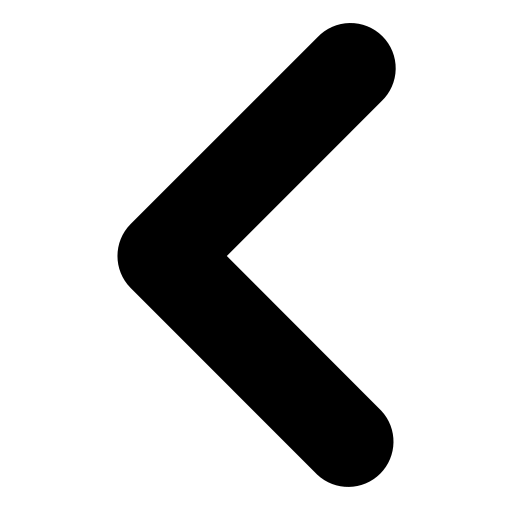
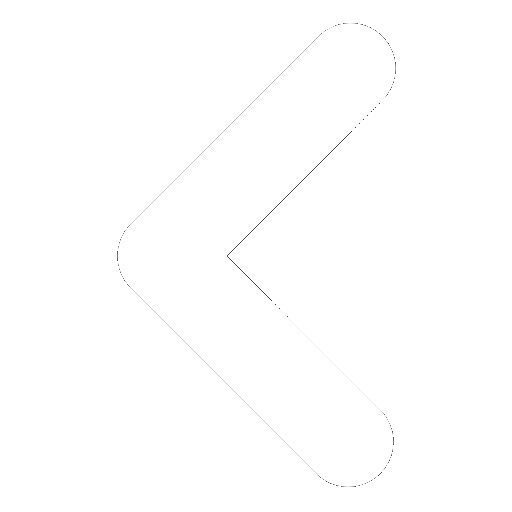
Added a back arrow to the project details page

Changed region(s): [[0.2188, 0.0312, 0.7812, 0.9688]]

diff --git a/src/app/project-details/project-details.component.css b/src/app/project-details/project-details.component.css
@@ -7,7 +7,7 @@ img {
     position: absolute;
     display: flex;
     float: left;
-    top: 10%;
+    top: 20%;
     left: 5%;
     width: 30%;
 }
@@ -28,4 +28,13 @@ table {
     top: 5%;
     width: 50%;
     flex-direction: column;
+}
+
+#backArrow {
+    position: absolute;
+    display: flex;
+    float: left;
+    top: 9%;
+    left: 5%;
+    width: 4%;
 }

diff --git a/src/app/project-details/project-details.component.html b/src/app/project-details/project-details.component.html
@@ -1,3 +1,4 @@
+<a routerLink="/projects"><img id="backArrow" src="../../assets/back_arrow.png" alt="go back to projects page"></a>
 <img src="../../assets/{{project.image}}" alt="{{project.title}}">
 <div class="grid">
     <h2>{{project.title}}</h2>
